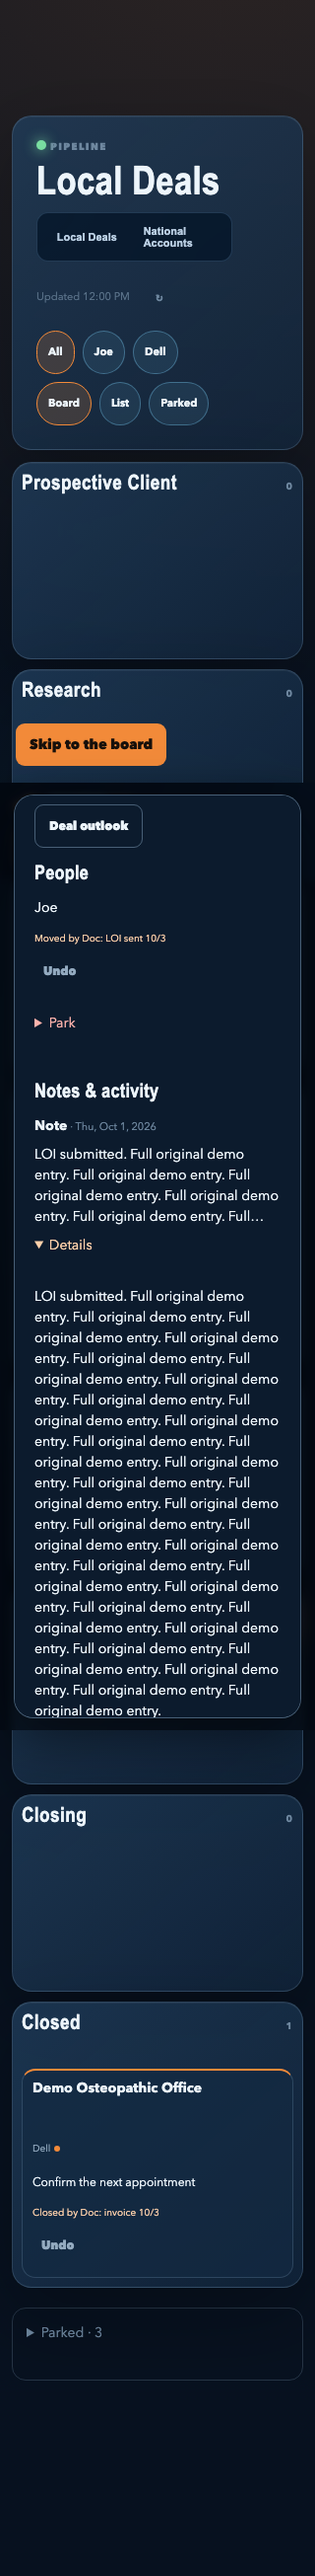
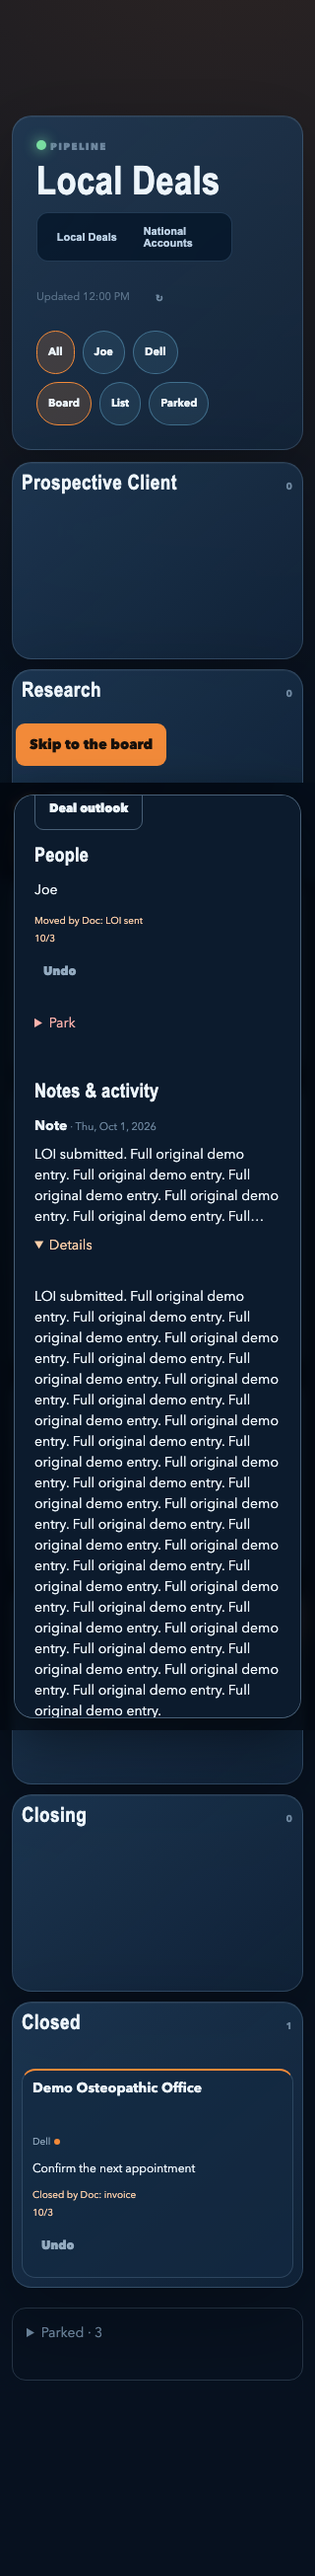
Keep automatic phase dates visible and pin reviewed CARR read

Changed region(s): [[0.0938, 0.8379, 0.5312, 0.869], [0.0938, 0.3103, 0.4062, 0.3724], [0.5625, 0.8379, 0.5938, 0.869]]

diff --git a/js/pipeline.js b/js/pipeline.js
@@ -125,7 +125,7 @@ const dateWords = (value) => (value ? formatCalendarDate(value) || value : 'no d
 
 function autoHtml(deal) {
   const move = automaticMove(deal);
-  return move ? `<div class="auto-move"><span>${esc(move.text)}</span><button class="btn btn-quiet" type="button" data-undo="${esc(move.eventId)}" aria-label="Undo phase change on ${esc(deal.name)}">Undo</button></div>` : '';
+  return move ? `<div class="auto-move"><span>${esc(move.text.slice(0, move.text.lastIndexOf(' ')))}</span> <time>${esc(move.text.slice(move.text.lastIndexOf(' ') + 1))}</time><button class="btn btn-quiet" type="button" data-undo="${esc(move.eventId)}" aria-label="Undo phase change on ${esc(deal.name)}">Undo</button></div>` : '';
 }
 function cardHtml(deal) {
   const attention = needsAttention(deal);
@@ -323,7 +323,7 @@ async function sendFieldWrite(dealId, field, value, extra = null) {
     deal: dealId,
     field,
     value,
-    extra: {intent_origin:'manual_ui', ...(extra || {})},
+    extra,
     base: state.fieldBase.get(cell)?.id || null,
     baseNow: () => state.fieldBase.get(cell)?.id || null,
     getState: () => state.fieldWrites,

diff --git a/css/pipeline.css b/css/pipeline.css
@@ -69,7 +69,7 @@
 .kanban { grid-auto-flow: row; grid-auto-columns: auto; grid-template-columns: repeat(8,minmax(0,1fr)); overflow: visible; gap: 10px; }
 .kanban-column { min-width: 0; padding: 9px; }
 .kanban-column > h3 { min-height: 48px; font-size: 21px; gap: 6px; }
-.kanban-card { height: 212px; min-width: 0; grid-template-rows: 44px 32px 24px 1fr; gap: 9px; padding: 10px; overflow: hidden; }
+.kanban-card { height: 212px; min-width: 0; grid-template-rows: 44px 24px 20px 1fr; gap: 6px; padding: 10px; overflow: hidden; }
 .kanban-card h4 { overflow: hidden; display: -webkit-box; -webkit-line-clamp: 2; -webkit-box-orient: vertical; }
 .work-meta { display: flex; flex-wrap: wrap; align-items: center; gap: 4px; min-width: 0; }
 .kanban-lane-label { display: none; }
@@ -126,3 +126,5 @@
 .hero-meta #retryRead { border: 0; background: transparent; color: var(--quiet); }
 
 .kanban-card[data-phase="Closed"] .attention-dot { animation: none; }
+
+.kanban-card .auto-move span { display: block; white-space: nowrap; text-overflow: ellipsis; }
